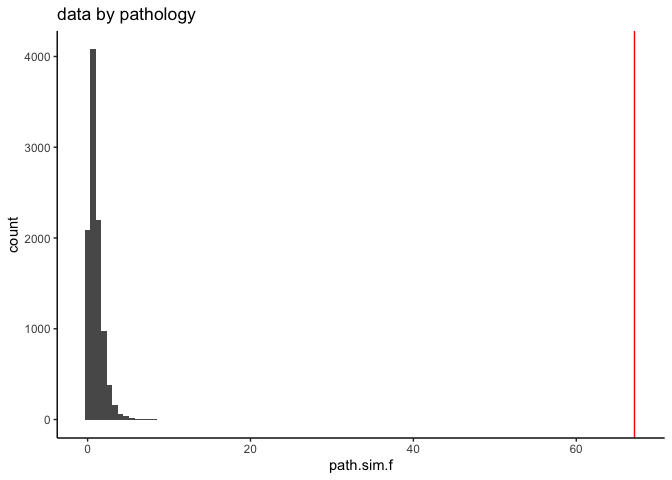
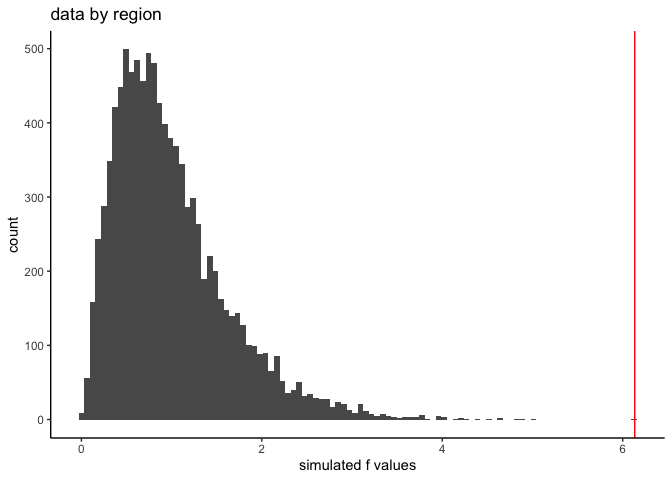
Update explanatory text

diff --git a/tisB_istR_analysis.md b/tisB_istR_analysis.md
@@ -133,24 +133,19 @@ path.f.real <- summary(aov(tisB_path_model))[[1]][1,4]
 ## f values by region
 
 ``` r
-p_reg_hist <- ggplot(f_vals, aes(x=log10(reg.sim.f))) + 
+p_region_hist <- ggplot(f_vals, aes(x=reg.sim.f)) + 
   geom_histogram(bins = 100) + 
-  geom_vline(xintercept = log10(reg.f.real), color="red")  + 
+  geom_vline(xintercept = reg.f.real, color="red") + 
+  xlab("simulated f values") + 
   ggtitle("data by region")
-print(p_reg_hist)
+print(p_region_hist)
 ```
 
-![](tisB_istR_analysis_files/figure-gfm/plot_region_histogram-1.png)
+![](tisB_istR_analysis_files/figure-gfm/unnamed-chunk-2-1.png)
 
-The distribution of f values here is pretty weird: note the log scale.
-It is being caused by the fact that there aren’t many ways to permute
-the labels on the data we have, so we end up with 10000 unique f vals
-(despite 10^{4} simulations). Many of these have odd combinations: for
-instance if each region gets *either* 0 gene copies or 2 gene copies,
-but not a mix of both, the f value will be extreme.
-
-So I’m not very satisfied by this simulation. However, our observed f
-value is greater than 100, indicating a p value of 0.
+Here the observed f value is greater than 10000 of the 10^{4}simulated
+values (i.e., all of them) so again we can say that the differences
+among types are significant at a level of p \< 10^{-4}.
 
 ## f values by pathotype
 
@@ -164,22 +159,8 @@ print(p_path_hist)
 
 ![](tisB_istR_analysis_files/figure-gfm/plot_pathotype_histogram-1.png)
 
-``` r
-f_clean <- f_vals%>%
-  filter(is.finite(path.sim.f),
-         path.sim.f > 1e-10,
-         path.sim.f < 1e10)
-
-
-p_path_hist_clean <- ggplot(f_vals %>%
-                              filter(is.finite(path.sim.f),
-                                     path.sim.f > 1e-10,
-                                     path.sim.f < 1e10), 
-                            aes(x=path.sim.f)) + 
-  geom_histogram(bins = 100) + 
-  geom_vline(xintercept = path.f.real, color="red") + 
-  ggtitle("data by pathology")
-print(p_path_hist_clean)
-```
-
-![](tisB_istR_analysis_files/figure-gfm/unnamed-chunk-2-1.png)
+Same situation here, and the difference between the observed f value and
+the simulated ones is more dramatic. (That’s not to say that the
+difference is larger, or more real in some sense: just that it is even
+less likely that random data would give us an f value as large as we see
+here).
